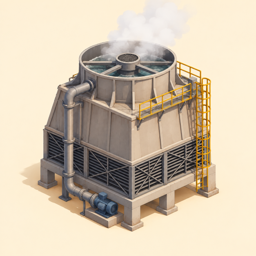
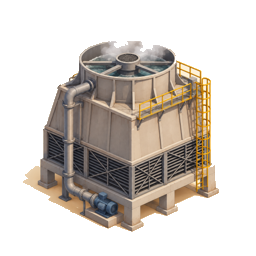
Keep title and pre-close decisions on the campus scene (#61)

diff --git a/src/ui/screens/OpeningCampus.tsx b/src/ui/screens/OpeningCampus.tsx
@@ -1,0 +1,61 @@
+import type { ReactNode } from 'react';
+import type { Content } from '../../content/schemas';
+import { resolveSite } from '../../content/sites';
+import type { GameState } from '../../engine/types';
+import { formatDollars } from '../../engine/format';
+import campusGround from '../../assets/art/campus-ground.jpg';
+import people from '../../assets/art/campus-people.png';
+import { STAGE_ART, TILE_ART, COOLING_ART, SUBSTATION_ART } from '../art';
+
+const STEPS = ['title','setup','lease','forecast','capital','power','insurance'];
+const OPENING: Record<string,{place:string;line:string}> = {
+  title:{place:'At the site gate',line:'A piece of land, a tenant deadline, and a campus to build.'},
+  setup:{place:'Walking the land',line:'Choose your ground and the kind of campus you want to build.'},
+  lease:{place:'At the site office',line:'Agree when the tenant expects delivery and who pays when you are late.'},
+  forecast:{place:'At the planning table',line:'Make your cost and delivery call before lenders size the funding.'},
+  capital:{place:'With the lender',line:'Match the construction budget with debt and equity. More debt is not free money.'},
+  power:{place:'At the power connection',line:'Agree the utility terms. The long study and equipment clocks start during construction.'},
+  insurance:{place:'Before signing',line:'Choose your cover, check the monthly cost, then close and start the campaign.'},
+};
+
+/** A read-only preview of the same land. No campaign state or month ticks until close. */
+export function OpeningCampus({step,preview,content,children}:{step:string;preview:GameState;content:Content;children:ReactNode}) {
+  const site = resolveSite(content,preview.scenarioId,preview.setup.site);
+  const guide = OPENING[step]!;
+  const at = step === 'power' ? 'power' : ['lease','forecast','capital','insurance'].includes(step) ? 'office' : 'land';
+  const sprite = (src:string|undefined,left:string,top:string,width:string,label:string,active=false) => (
+    <div style={{position:'absolute',left,top,width,height:width,border:active?'2px dashed #765522':'2px solid transparent',borderRadius:12,boxSizing:'border-box'}}>
+      <img src={src} alt="" draggable={false} style={{width:'100%',height:'100%',objectFit:'contain'}} />
+      <span style={{position:'absolute',left:'50%',bottom:0,transform:'translateX(-50%)',whiteSpace:'nowrap',fontSize:11,background:'#fff8e9e8',borderRadius:3,padding:'1px 4px'}}>{label}</span>
+    </div>
+  );
+  return <div data-testid="opening-campus" data-opening-step={step} data-site={site.id} style={{height:'100vh',display:'flex',flexDirection:'column',fontFamily:'Arial,sans-serif',color:'#302d25',background:'#f1eadc'}}>
+    <header style={{display:'flex',alignItems:'center',gap:24,padding:'12px 22px',background:'#fffdf6',borderBottom:'1px solid #cdbf9f'}}>
+      <span style={{fontFamily:'Georgia,serif',fontSize:20}}>Outside Date</span>
+      <strong>{step === 'title' ? 'Your next campus' : 'Before construction'}</strong>
+      <span>{site.name}</span><span style={{marginLeft:'auto',fontSize:12}}>No time passes until you sign</span>
+    </header>
+    <div style={{flex:1,minHeight:0,position:'relative',backgroundImage:`url(${campusGround})`,backgroundSize:'cover',backgroundPosition:'center'}}>
+      <div data-testid="opening-land" data-pond={String(site.mapTheme.pond)} style={{position:'absolute',inset:0,overflow:'hidden',background:site.mapTheme.pond?'#65905c1a':site.extraPadMonths?'#ae74451a':'transparent'}}>
+        {sprite(TILE_ART.siteOffice.img,'2%','16%','10vw','Site office',at==='office')}
+        {sprite(site.mapTheme.pond?TILE_ART.pond.img:TILE_ART.dryField.img,'1%','57%','11vw',site.mapTheme.pond?'Wetland pond':'Low field')}
+        {preview.halls.map((h,i)=>sprite(STAGE_ART.notStarted?.img,`${13+(i%2)*14}%`,`${23+Math.floor(i/2)*28}%`,'13vw',`${h.id} planned`,at==='land'&&step==='setup'))}
+        {sprite(SUBSTATION_ART.none,'29%','4%','10vw','Power connection',at==='power')}
+        {sprite(COOLING_ART[preview.setup.cooling]?.img,'2%','38%','8vw',`${preview.setup.cooling} cooling planned`)}
+        {sprite(people,'3%','77%','8vw','Your team')}
+      </div>
+      <aside data-testid="opening-conversation" style={{position:'absolute',right:16,top:14,bottom:14,width:'min(720px,56vw)',display:'flex',flexDirection:'column',background:'#fffdf5f5',border:'1px solid #a18b61',borderRadius:10,boxShadow:'0 8px 28px #38240544',overflow:'hidden'}}>
+        <div style={{padding:'12px 18px',background:'#eee3c9',borderBottom:'1px solid #cdbf9f'}}>
+          <div style={{fontSize:11,textTransform:'uppercase',letterSpacing:1,color:'#765522'}}>{guide.place}{step!=='title'?` · ${STEPS.indexOf(step)} of 6`:''}</div>
+          <div style={{fontSize:13,marginTop:5}}>{guide.line}</div>
+        </div>
+        <div className="opening-content" style={{flex:1,minHeight:0,overflowY:'auto'}}>{children}</div>
+      </aside>
+    </div>
+    <footer style={{display:'flex',gap:24,padding:'10px 22px',background:'#fffdf6',borderTop:'1px solid #cdbf9f',fontSize:12}}>
+      <span>{preview.halls.length} halls planned · {preview.setup.hallTier} racks · {preview.setup.gc === 'gmp' ? 'Fixed-price contractor' : 'Cost-plus contractor'}</span>
+      {step!=='title'&&<span style={{marginLeft:'auto'}}>Current project budget: {formatDollars(preview.budgetAtClose)} · Not signed yet</span>}
+    </footer>
+    <style>{`.opening-content > div {padding:18px !important;max-width:none !important;margin:0 !important;height:auto !important;min-height:0 !important;box-sizing:border-box}.opening-content h1 {margin:4px 0}.opening-content h2 {margin-top:0}.opening-content p {line-height:1.35}`}</style>
+  </div>;
+}

diff --git a/e2e/opening-campus.spec.ts b/e2e/opening-campus.spec.ts
@@ -1,0 +1,22 @@
+import { expect, test } from '@playwright/test';
+test('opening choices stay on the land and only close starts the campaign',async({page})=>{
+  await page.goto('/');await expect(page.getByTestId('opening-campus')).toHaveAttribute('data-opening-step','title');
+  await page.screenshot({path:'docs/screenshots/cold2/opening-title.png'});
+  await page.getByRole('button',{name:'New game',exact:true}).click();
+  await expect(page.getByTestId('opening-campus')).toHaveAttribute('data-opening-step','setup');
+  await page.getByTestId('site-card-farmland').click();
+  await expect(page.getByTestId('opening-land')).toHaveAttribute('data-pond','true');
+  await expect(page.getByTestId('opening-campus')).toHaveAttribute('data-site','farmland');
+  await page.screenshot({path:'docs/screenshots/cold2/opening-land.png'});
+  await page.getByRole('button',{name:'Next: Lease',exact:true}).click();
+  await expect(page.getByTestId('opening-campus')).toHaveAttribute('data-opening-step','lease');
+  await page.getByRole('button',{name:'Next: Forecast',exact:true}).click();
+  await page.getByRole('button',{name:'Next: Capital stack',exact:true}).click();
+  await page.getByRole('button',{name:'Next: Power',exact:true}).click();
+  await page.setViewportSize({width:1440,height:900});
+  await page.screenshot({path:'docs/screenshots/cold2/opening-power-1440.png'});
+  await page.getByRole('button',{name:'Next: Insurance',exact:true}).click();
+  await expect(page.getByRole('button',{name:'End month',exact:true})).toHaveCount(0);
+  await page.getByRole('button',{name:'Start campaign',exact:true}).click();
+  await expect(page.getByTestId('campus-status')).toContainText('Y1 M1');
+});

diff --git a/src/ui/screens/PowerScreen.tsx b/src/ui/screens/PowerScreen.tsx
@@ -100,7 +100,8 @@ export function PowerScreen({ content, scenarioId, negotiation, onChange, onBack
         {rows.map((row, i) => (
           <div
             key={row.label}
-            style={{ position: 'absolute', left: `${(row.month / maxMonth) * 100}%`, top: i * 16, fontSize: '0.7rem', color: row.color, whiteSpace: 'nowrap' }}
+            style={{ position: 'absolute', left: `${(row.month / maxMonth) * 100}%`,
+              transform: row.month > maxMonth * 0.65 ? 'translateX(-100%)' : undefined, top: i * 16, fontSize: '0.7rem', color: row.color, whiteSpace: 'nowrap' }}
             title={`${row.label}: ${formatMonth(row.month)}`}
           >
             | {row.label} ({formatMonth(row.month)})

diff --git a/src/ui/screens/SetupWizard.tsx b/src/ui/screens/SetupWizard.tsx
@@ -1,3 +1,5 @@
+import { OpeningCampus } from './OpeningCampus';
+import { previewState } from './preview';
 import { useState } from 'react';
 
 import type { DifficultyId, NegotiationChoices } from '../../engine/init';
@@ -52,6 +54,7 @@ export function SetupWizard() {
     newGame('tutorial-edge5', DEFAULT_SETUP, DEFAULT_NEGOTIATION, 1, 'normal');
   }
 
+  function renderStep() {
   switch (step) {
     case 'title':
       return (
@@ -138,4 +141,6 @@ export function SetupWizard() {
         />
       );
   }
+  }
+  return <OpeningCampus step={step} preview={previewState(content,scenarioId,setup,wizard.negotiation,difficultyId)} content={content}>{renderStep()}</OpeningCampus>;
 }

diff --git a/tests/ui/titleScreenDifficulty.test.ts b/tests/ui/titleScreenDifficulty.test.ts
@@ -21,9 +21,9 @@ describe('describeDifficulty (item 6)', () => {
     expect(text).toContain('+10 tenant goodwill');
   });
 
-  it('describes normal as having no overrides', () => {
+  it('describes normal exit valuation tuning', () => {
     const text = describeDifficulty(whaleDifficulties?.normal);
-    expect(text).toBe('No overrides - the scenario\u2019s defaults apply.');
+    expect(text).toBe('base exit cap rate 7.75%.');
   });
 
   it('describes hard: forced farmland, harsher goodwill, doubled supply_shock odds', () => {

diff --git a/src/ui/screens/TitleScreen.tsx b/src/ui/screens/TitleScreen.tsx
@@ -33,6 +33,8 @@ export function describeDifficulty(preset: NonNullable<Scenario['difficulties']>
     const bits = Object.entries(preset.eventOddsMultipliers).map(([id, m]) => `${id} odds \u00d7${m}`);
     parts.push(bits.join(', '));
   }
+  const cap = preset.tuningOverrides?.takeout?.baseCapRate;
+  if (typeof cap === 'number') parts.push(`base exit cap rate ${(cap * 100).toFixed(2)}%`);
   if (parts.length === 0) return 'No overrides - the scenario\u2019s defaults apply.';
   return `${parts.join('; ')}.`;
 }

diff --git a/src/ui/screens/SetupScreen.tsx b/src/ui/screens/SetupScreen.tsx
@@ -171,7 +171,7 @@ function Section<T extends string>({
           <label key={opt.id} style={{ display: 'flex', gap: '0.5rem', alignItems: 'baseline' }}>
             <input type="radio" checked={selected === opt.id} onChange={() => onPick(opt.id)} />
             <span>
-              <strong>{opt.label}</strong> — {opt.note}
+              <strong>{opt.label}</strong> - {opt.note}
             </span>
           </label>
         ))}

diff --git a/CHECKPOINT.md b/CHECKPOINT.md
@@ -1058,3 +1058,22 @@ unique newly failed inspection. Unknown targets use the office, never a random h
 | full gates | done: 518 unit, 62 e2e, lint, tsc, build after final tuning |
 | visual | done: updated cutoff wording inspected, all choices visible |
 | migration | skipped: no saved-state shape change |
+
+# Immersive opening stage 1 - setup stays on the land
+
+The title and all six pre-close steps now sit over a read-only campus preview.
+Selected site changes the land/pond, hall count follows the scenario, and cooling
+art follows the choice. A short location/why line introduces each decision in
+order. No game state is started and no month passes until signing. Existing
+inputs, scenario overrides and save loading remain intact. Cooling sprites now
+have transparent edges; the power timeline labels stay inside the panel.
+
+| criterion | status |
+|---|---|
+| scene continuity | done: land visible on title and every setup step |
+| honest pre-close state | done: planned labels, no time until sign, budget and not-signed footer |
+| site/choices | done: e2e farmland repaints pond, all steps reach Start campaign at Y1 M1 |
+| full gates | done: 518 unit, 63 e2e, lint, tsc, build |
+| visual | done: 1280 title/land and 1440 power inspected; timeline clipping fixed |
+| grid | skipped: presentation only, no rules or save shape change |
+| staged remainder | split initial setup into land/hall/cooling/contractor interactions; final closing review; in-scene takeout/report |
